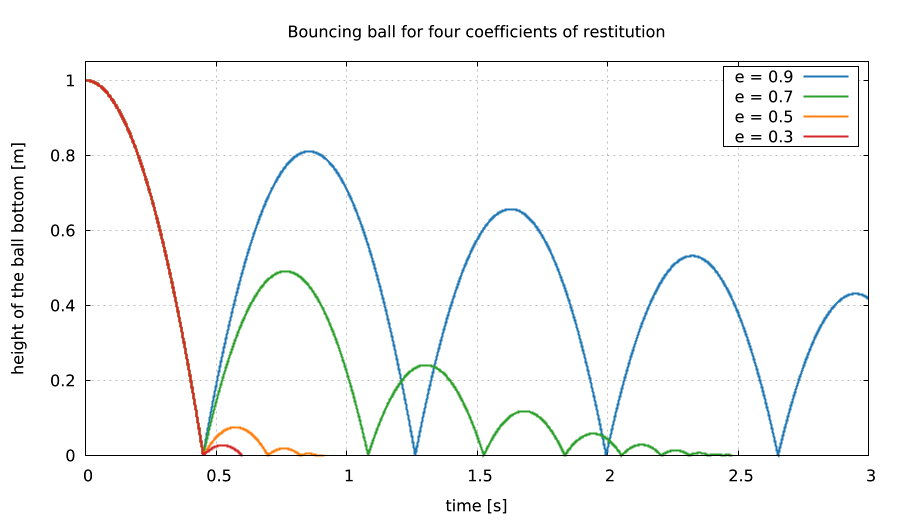
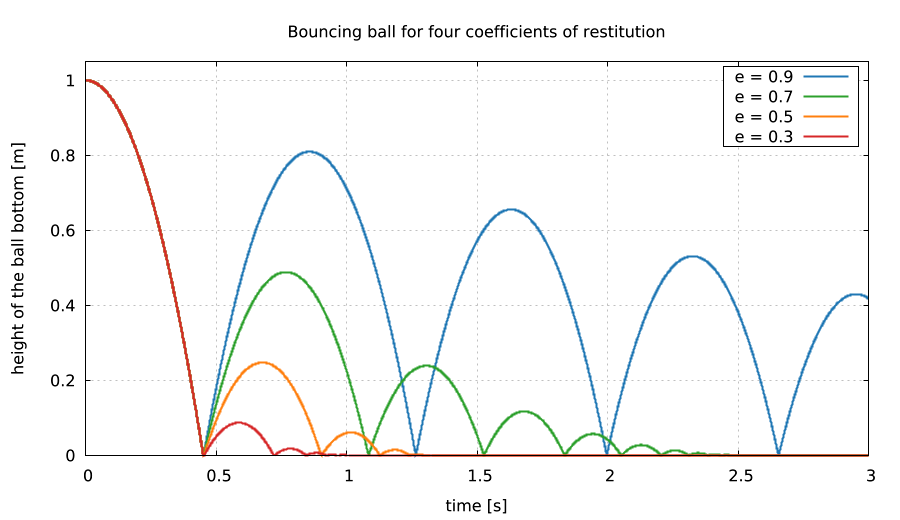
Gallery of 16 pictures grouped by theme, new examples (double pendulum + GIF, projectile, friction, resonance, free-body diagram, crank drawing, pour), notes

diff --git a/README.md b/README.md
@@ -5,23 +5,49 @@
 [![CI](https://github.com/lmctl-ai/lmphysics/actions/workflows/ci.yml/badge.svg)](https://github.com/lmctl-ai/lmphysics/actions/workflows/ci.yml)
 [![License: MIT](https://img.shields.io/badge/license-MIT-blue.svg)](LICENSE)
 
-| ![pendulum_phase](docs/images/pendulum_phase.png) | ![energy_drift](docs/images/energy_drift.png) |
+### Mechanisms and joints
+
+| ![viz_double_pendulum](docs/images/double_pendulum.png) | ![anim_double_pendulum](docs/images/double_pendulum.gif) |
+| --- | --- |
+| Chaos: two double pendulums one micro-radian apart separate exponentially.<br>`lmctl autorun https://raw.githubusercontent.com/lmctl-ai/lmphysics/main/examples/viz_double_pendulum.lms` | The same double pendulum, animated (needs ffmpeg).<br>`lmctl autorun https://raw.githubusercontent.com/lmctl-ai/lmphysics/main/examples/anim_double_pendulum.lms` |
+
+| ![viz_pendulum_phase](docs/images/pendulum_phase.png) | ![viz_energy_drift](docs/images/energy_drift.png) |
 | --- | --- |
 | Phase portrait of a pendulum on a joint: ellipses for small swings, the separatrix for large ones.<br>`lmctl autorun https://raw.githubusercontent.com/lmctl-ai/lmphysics/main/examples/viz_pendulum_phase.lms` | Energy error of one pendulum under three Chrono integrators: HHT conserves it, trapezoidal bleeds it.<br>`lmctl autorun https://raw.githubusercontent.com/lmctl-ai/lmphysics/main/examples/viz_energy_drift.lms` |
 
-| ![damping](docs/images/damping.png) | ![restitution](docs/images/restitution.png) |
+| ![pendulum](docs/images/pendulum.png) | ![slider_crank](docs/images/slider_crank.png) |
 | --- | --- |
-| Mass-spring-damper, four damping ratios, simulation on top of the closed form.<br>`lmctl autorun https://raw.githubusercontent.com/lmctl-ai/lmphysics/main/examples/viz_damping.lms` | A ball dropped for four coefficients of restitution.<br>`lmctl autorun https://raw.githubusercontent.com/lmctl-ai/lmphysics/main/examples/viz_restitution.lms` |
+| Revolute pendulum: joint angle and the reaction force at the pin.<br>`lmctl autorun https://raw.githubusercontent.com/lmctl-ai/lmphysics/main/examples/pendulum.lms` | Slider-crank driven by a motor: slider position against the closed form.<br>`lmctl autorun https://raw.githubusercontent.com/lmctl-ai/lmphysics/main/examples/slider_crank.lms` |
 
-| ![slider_crank](docs/images/slider_crank.png) | ![incline](docs/images/incline.png) |
+| ![viz_crank_snapshots](docs/images/crank_snapshots.png) | |
 | --- | --- |
-| Slider-crank mechanism driven by a motor: slider position vs closed form.<br>`lmctl autorun https://raw.githubusercontent.com/lmctl-ai/lmphysics/main/examples/slider_crank.lms` | Friction on a 30 degree ramp: sliding at g(sin - mu cos), sticking when tan < mu.<br>`lmctl autorun https://raw.githubusercontent.com/lmctl-ai/lmphysics/main/examples/incline.lms` |
+| The slider-crank drawn at four crank angles from the simulated positions.<br>`lmctl autorun https://raw.githubusercontent.com/lmctl-ai/lmphysics/main/examples/viz_crank_snapshots.lms` | |
 
-| ![pendulum](docs/images/pendulum.png) | ![bounce](docs/images/bounce.png) |
+### Contact and friction
+
+| ![viz_restitution](docs/images/restitution.png) | ![bounce_plot](docs/images/bounce.png) |
 | --- | --- |
-| Revolute pendulum: joint angle and the reaction force at the pin.<br>`lmctl autorun https://raw.githubusercontent.com/lmctl-ai/lmphysics/main/examples/pendulum.lms` | A bouncing ball, simulated by lmphysics and drawn by lmplot in one script.<br>`lmctl autorun https://raw.githubusercontent.com/lmctl-ai/lmphysics/main/examples/combo/bounce_plot.lms` |
+| A ball dropped for four coefficients of restitution: each apex is e squared times the last.<br>`lmctl autorun https://raw.githubusercontent.com/lmctl-ai/lmphysics/main/examples/viz_restitution.lms` | A ball bouncing along the floor: lmphysics simulates, lmplot draws, one script.<br>`lmctl autorun https://raw.githubusercontent.com/lmctl-ai/lmphysics/main/examples/combo/bounce_plot.lms` |
 
-Every picture is made by the script named under it: the script runs the simulation with lmphysics, draws with [lmplot](https://github.com/lmctl-ai/lmplot) and writes `images/` into the current directory. `examples/render-all.sh` regenerates `docs/images/`.
+| ![incline](docs/images/incline.png) | ![viz_incline_forces](docs/images/incline_forces.png) |
+| --- | --- |
+| A block on a 30 degree ramp: sliding at g (sin - mu cos), or sticking (NSC and SMC).<br>`lmctl autorun https://raw.githubusercontent.com/lmctl-ai/lmphysics/main/examples/incline.lms` | Free-body diagram of the sliding block with the forces measured in the simulation (lmdraw).<br>`lmctl autorun https://raw.githubusercontent.com/lmctl-ai/lmphysics/main/examples/viz_incline_forces.lms` |
+
+| ![viz_friction_stop](docs/images/friction_stop.png) | ![viz_pour](docs/images/pour.png) |
+| --- | --- |
+| Sliding distance against friction coefficient, 40 simulations on the closed form.<br>`lmctl autorun https://raw.githubusercontent.com/lmctl-ai/lmphysics/main/examples/viz_friction_stop.lms` | Forty balls poured into a box and settled, rendered with lmcad.<br>`lmctl autorun https://raw.githubusercontent.com/lmctl-ai/lmphysics/main/examples/viz_pour.lms` |
+
+### Oscillations and projectiles
+
+| ![viz_damping](docs/images/damping.png) | ![viz_resonance](docs/images/resonance.png) |
+| --- | --- |
+| Mass-spring-damper, four damping ratios, simulation on top of the closed form.<br>`lmctl autorun https://raw.githubusercontent.com/lmctl-ai/lmphysics/main/examples/viz_damping.lms` | Driven oscillator: simulated resonance curve and time histories (applied force).<br>`lmctl autorun https://raw.githubusercontent.com/lmctl-ai/lmphysics/main/examples/viz_resonance.lms` |
+
+| ![viz_projectile](docs/images/projectile.png) | |
+| --- | --- |
+| Projectile range against launch angle: 44 simulations, 45 degrees wins.<br>`lmctl autorun https://raw.githubusercontent.com/lmctl-ai/lmphysics/main/examples/viz_projectile.lms` | |
+
+Every picture is made by the script named under it: it runs the simulation with lmphysics, draws with [lmplot](https://github.com/lmctl-ai/lmplot), [lmdraw](https://github.com/lmctl-ai/lmdraw) or [lmcad](https://github.com/lmctl-ai/lmcad) and writes `images/` into the current directory. `examples/render-all.sh` regenerates `docs/images/`.
 
 It is a scripting host, not a command-line tool: write an [lmscript](https://lmctl.com/tools/lmscript/skill.html) `_dsl_` block and run it. No Python, no data files, no shared libraries.
 
@@ -68,10 +94,13 @@ gravity `(0, 0, -9.81)` by default; lengths in m, masses in kg, angles in rad.
 | `spring(name, A, B, k, c, rest)` | linear spring-damper between the body centres |
 | `motor_speed(name, A, B, px,py,pz, ax,ay,az, "expr(t)")` `motor_angle(...)` | rotational motor, speed or angle given as an expression |
 | `record(name, "col,col")` `step()` `run(t_end)` `save_csv(path)` | fixed-step integration and logging (one CSV row per step) |
+| `record_every(n)` | keep every n-th step (the last state is always written) |
+| `collision_margins(envelope, margin)` | NSC only: `(0, 0)` makes restitution exact (apex = e^2 h) but stacks unstable; default is Chrono's 3 cm / 1 cm |
+| `bounce_speed(v)` | NSC: below this approach speed (default 0.15 m/s) restitution is ignored |
 | `time()` `energy()` `contacts()` | state queries |
 
 `Body`: `pos(x,y,z)` `vel(x,y,z)` `rot_axis(ax,ay,az,angle)` `omega(x,y,z)` `fixed(bool)`
-`mass_props(m, ixx,iyy,izz)` `collide(material)`, and readers `mass x y z vx vy vz wx wy wz lx ly lz speed ke`
+`mass_props(m, ixx,iyy,izz)` `collide(material)`, `force("fx(t)","fy(t)","fz(t)")` and `torque(...)` (world-frame loads as expressions in t), and readers `mass x y z vx vy vz wx wy wz lx ly lz speed ke`
 (`l*` is angular momentum about the centre, world frame; `ke` kinetic energy).
 `Joint`: `angle` (rotation of B about the joint axis since creation, unwrapped) `length` `force`
 (spring force, otherwise reaction magnitude) `torque` and `reaction_x/y/z` (force on B, world frame).
@@ -89,9 +118,17 @@ Record columns are the same names, joints also `fx fy fz tx ty tz`. Schema and r
 
 Measured accuracies are listed in [durable-memory/05-build-run-test.md](durable-memory/05-build-run-test.md).
 
-Combine it with other hosts in one script: [examples/combo/bounce_plot.lms](examples/combo/bounce_plot.lms)
-simulates a bouncing ball with lmphysics and draws the trajectory with
-[lmplot](https://github.com/lmctl-ai/lmplot) (two `_dsl_` blocks, two hosts).
+### Limits worth knowing
+
+- Chrono's NSC contact (cone complementarity) keeps a sliding body `mu |v| dt` above the floor; a block that
+  starts exactly in contact with a speed hops once on the first step. Start it a few millimetres above the floor
+  (see [viz_friction_stop.lms](examples/viz_friction_stop.lms)) or use a smaller step.
+- Restitution with Chrono's default 3 cm collision envelope lands between e^2 and e: use `collision_margins(0, 0)`
+  for isolated impacts. Stacks of boxes need the defaults.
+- `hht`/`newmark` fail on over-constrained mechanisms (planar linkages built from 3D joints): use `trapezoidal`.
+  HHT does not work with NSC contact.
+- Rigid bodies, joints and contact only: no meshes, no soft bodies, no vehicles, no fluids.
+- Results differ in the last digits between platforms; the tests compare with tolerances.
 
 ## Build
 

diff --git a/durable-memory/07-examples.md b/durable-memory/07-examples.md
@@ -13,18 +13,35 @@ spring and damped spring, energy, motors, torque-free rotation, pendulum periods
 elliptic integral, hanging reaction = m g, prismatic slide, rigid rod, bounce windows, incline,
 resting contact.
 
-## Pictures (VISUALS.md)
+## Pictures
 
-README starts with a gallery of 8 PNGs in `docs/images/` (<= 300 KB, ~900 px). Every image is produced by an
-example script that is self-contained: `lmctl autorun <raw url>` in an empty directory runs the simulation
-(`system ${dsl_cli(sim)} --dsl ...`), draws with lmplot and writes `images/<name>.png` plus scratch
-`build/` under the current directory. `examples/render-all.sh` runs them all with `docs/` as the cwd to
-refresh `docs/images/`. `test.sh` checks the gallery (files exist, PNG/GIF magic bytes, <= 3 MB), runs every
-example in a scratch directory (needs lmplot: on PATH or `LMPHYSICS_TEST_NETWORK=1`, otherwise it prints
-`SKIPPED` loudly) and compares the CSVs of a second run byte for byte.
+The README opens with 16 images in `docs/images/`, grouped by theme. Every image is made by a self-contained example:
+`lmctl autorun <raw url>` in an empty directory runs the simulation (`system ${dsl_cli(sim)} --dsl ...`), draws, and
+writes `images/<name>.png` plus scratch files under `build/`. `examples/render-all.sh` runs all of them with `docs/` as the
+working directory to refresh `docs/images/`.
 
-New viz examples: `viz_pendulum_phase`, `viz_energy_drift`, `viz_damping`, `viz_restitution`. The old
-examples (`pendulum`, `bouncing_ball`, `incline`, `slider_crank`, `combo/bounce_plot`) now also draw.
-Not done: 3D renders/animation with lmcad (its keyframe CSV needs `t,x,y,z,r,g,b`, which would need a
-`save_keyframes` helper in lmphysics; see 08-open-items.md). Newton's cradle was tried: the rigid NSC solver
-sends part of the momentum back, so it is not a clean demo.
+| example | picture | story and check |
+| --- | --- | --- |
+| `viz_double_pendulum` | double_pendulum.png | chaos: two runs 1e-6 rad apart separate exponentially; energy conserved to 1e-3 (HHT) |
+| `anim_double_pendulum` | double_pendulum.gif | the same system animated: lmdraw frame per 50 ms from the CSV, ffmpeg palette GIF |
+| `viz_pendulum_phase` | pendulum_phase.png | phase portraits up to a release angle of 3.0 rad |
+| `viz_energy_drift` | energy_drift.png | integrator comparison on one joint pendulum |
+| `pendulum`, `slider_crank` | pendulum.png, slider_crank.png | joint reaction force; closed-form slider position |
+| `viz_crank_snapshots` | crank_snapshots.png | lmdraw drawing of the linkage at 4 crank angles from the simulated numbers |
+| `viz_restitution`, `combo/bounce_plot` | restitution.png, bounce.png | exact e^2 apexes with `collision_margins(0, 0)` |
+| `incline`, `viz_incline_forces` | incline.png, incline_forces.png | a = g (sin - mu cos), sticking when tan < mu; free-body diagram (lmdraw) |
+| `viz_friction_stop` | friction_stop.png | 40 sliding distances against v0^2 / (2 mu g) |
+| `viz_pour` | pour.png | 40 balls settled in a box; lmscript turns the final CSV row into an lmcad keyframe file |
+| `viz_damping`, `viz_resonance`, `viz_projectile` | damping.png, resonance.png, projectile.png | closed-form checks for oscillators and ballistics |
+
+How the hosts talk: sweeps print one line per case with `phys.print`; lmscript saves `r.stdout` and lmplot reads the file
+(`every ::0::N` skips the final JSON status line). lmscript has `csv_parse(read_file(..))`, `write_file`, `copy_file`,
+`sprintf` (no `%e`), `sqrt`/`abs`, no trig, no `split`. `${x}` substitutes an integral number as an int literal, so wrap
+with `+ 0.0001` or `float()` where the DSL wants a float. `plot.data` silently truncates large strings (about 8-11 KB seen):
+write a file and read it from gnuplot instead. lmdraw may only write under `build/rendered/` (copy_file to `images/`),
+and its `end _dsl_` line must start at column 1 even inside a loop. lmcad's `read_keyframes_csv` (header
+`t,x,y,z,r,g,b`) doubles as a point-list reader. Chrono's y/z differ from lmcad's (y up): map (x, y, z) to (x, z, y).
+
+`test.sh` checks the gallery (PNG/GIF magic, <= 3 MB, linked examples exist), runs the examples in a scratch directory
+when lmplot is available (`LMPHYSICS_TEST_NETWORK=1`; the anim example is skipped loudly without ffmpeg) and compares the
+CSVs of a second run byte for byte.

diff --git a/durable-memory/04-numerics.md b/durable-memory/04-numerics.md
@@ -27,25 +27,42 @@ Measured on Linux x86-64 (errors are what the test programs assert, with margin)
   default, `hht_alpha`), so it is not exact for free fall.
 - Everything else uses the NSC/PSOR default solver unless `solver()` says otherwise.
 
-## Restitution (NSC) is not a precise oracle
+## Restitution (NSC) and the collision margins
 
-Chrono applies the Newton rebound model only if the ball would still be penetrating after the
-rebound within the step, otherwise the step ends exactly in touch, absorbing up to
-`(1 - e)` of the approach speed, and the rebound at the next step starts from the reduced speed. The
-effective coefficient lies in `[e^2, e]` depending on the impact phase, independent of dt, so apex
-heights shrink by a factor in `[e^4, e^2]` per bounce. Tests assert that window, not 0.64. SMC
-restitution (Hertz damping derived from `e`) gives ratio ~0.78 for e = 0.8 (apex ratio 0.61 for the second bounce); not asserted.
+Chrono applies the Newton rebound model only if the ball would still be penetrating after the rebound within the
+step. With the default 3 cm collision envelope and 1 cm margin a contact exists before the shapes touch, so the
+step ends exactly in touch (absorbing up to `(1 - e)` of the approach speed) and the rebound happens a step later from
+the reduced speed: the effective coefficient lies in `[e^2, e]` depending on the impact phase, independent of dt (a
+ball with e = 0.5 reached 0.07 m instead of 0.25 m). `System.collision_margins(0, 0)` removes the early contact:
+apex = e^2 h to 1 % (0.248 and 0.0613 m for e = 0.5 from 1 m, tested). The price: boxes stacked three high with a
+sphere on top collapse with envelope 0 (they are stable with the defaults and with envelope >= 5 mm and margin 0 the
+restitution gain is lost), so the margins are opt-in. Only envelope AND margin at 0 fixes restitution; Chrono keeps both
+as process-wide statics read when a body's collision model is created and when the step binds it, so the host sets
+them around every body creation and step of an NSC system (`MarginGuard`). SMC restitution (Hertz damping derived from
+`e`) gives an apex ratio of about 0.78 for e = 0.8; not asserted.
 
-## Newton convergence is not reported
+## Friction hop
 
-HHT with the host preset (30 iterations, rtol 1e-6, atol 1e-9, step control off) routinely ends a step
-"unconverged": in the 115 degree pendulum |R| is 1e-20 but the constraint residual stalls at 1.8e-9 > atol and
-the WRMS update oscillates around 1.6 (round-off). Chrono then accepts the step silently. Treating that as an
-error would reject correct runs, so the host does not check Newton convergence (open item: a residual-based
-check would need Chrono internals that are not exposed).
+Chrono's cone-complementarity friction keeps a sliding body `mu |v| dt` above the floor (the Anitescu relaxation). A
+block that starts exactly in contact therefore gets an upward speed `mu |v|` on the first step and hops (0.14 m for
+mu = 0.3, 5.5 m/s, 2 ms steps). Start it a few millimetres above the floor, or start it at rest, or use a smaller dt; once
+the contact has been established the block slides at a constant gap of `mu |v| dt` (2.9 mm in that example) and the
+friction oracles (stopping distance v^2 / (2 mu g), a = g (sin - mu cos)) hold to 1e-4.
 
 ## Determinism
 
 Single thread (`SetNumThreads(1)`, OpenMP off). Same program twice gives byte-identical CSV on
 one machine. Across platforms (x86 FMA, arm64) expect last-digit differences; contact tests
 assert tolerances, never exact numbers.
+
+## Applied loads, recording
+
+`Body.force/torque` take three expressions in t (world frame, force at the centre of mass) and use Chrono's `ChForce`
+with `WORLD_DIR`. Tested: F = 3 N on 2 kg gives x = F t^2 / 2m to 1e-4; torque about z gives w = tau t / I; a driven damped
+oscillator reaches the analytic steady-state amplitude F0 / sqrt((k - m w^2)^2 + (c w)^2) within 2 % at 49 frequencies
+(`viz_resonance.lms`). `record_every(n)` keeps every n-th step and `save_csv` always appends the final state.
+
+## HHT details
+
+The double pendulum (two revolute joints) is chaotic: with `hht_alpha(0)` (no numerical damping) HHT diverged at 6.9 s;
+the default alpha keeps the energy to 2e-5 over 12 s. Two runs a micro-radian apart separate by one e-fold per ~0.8 s.
